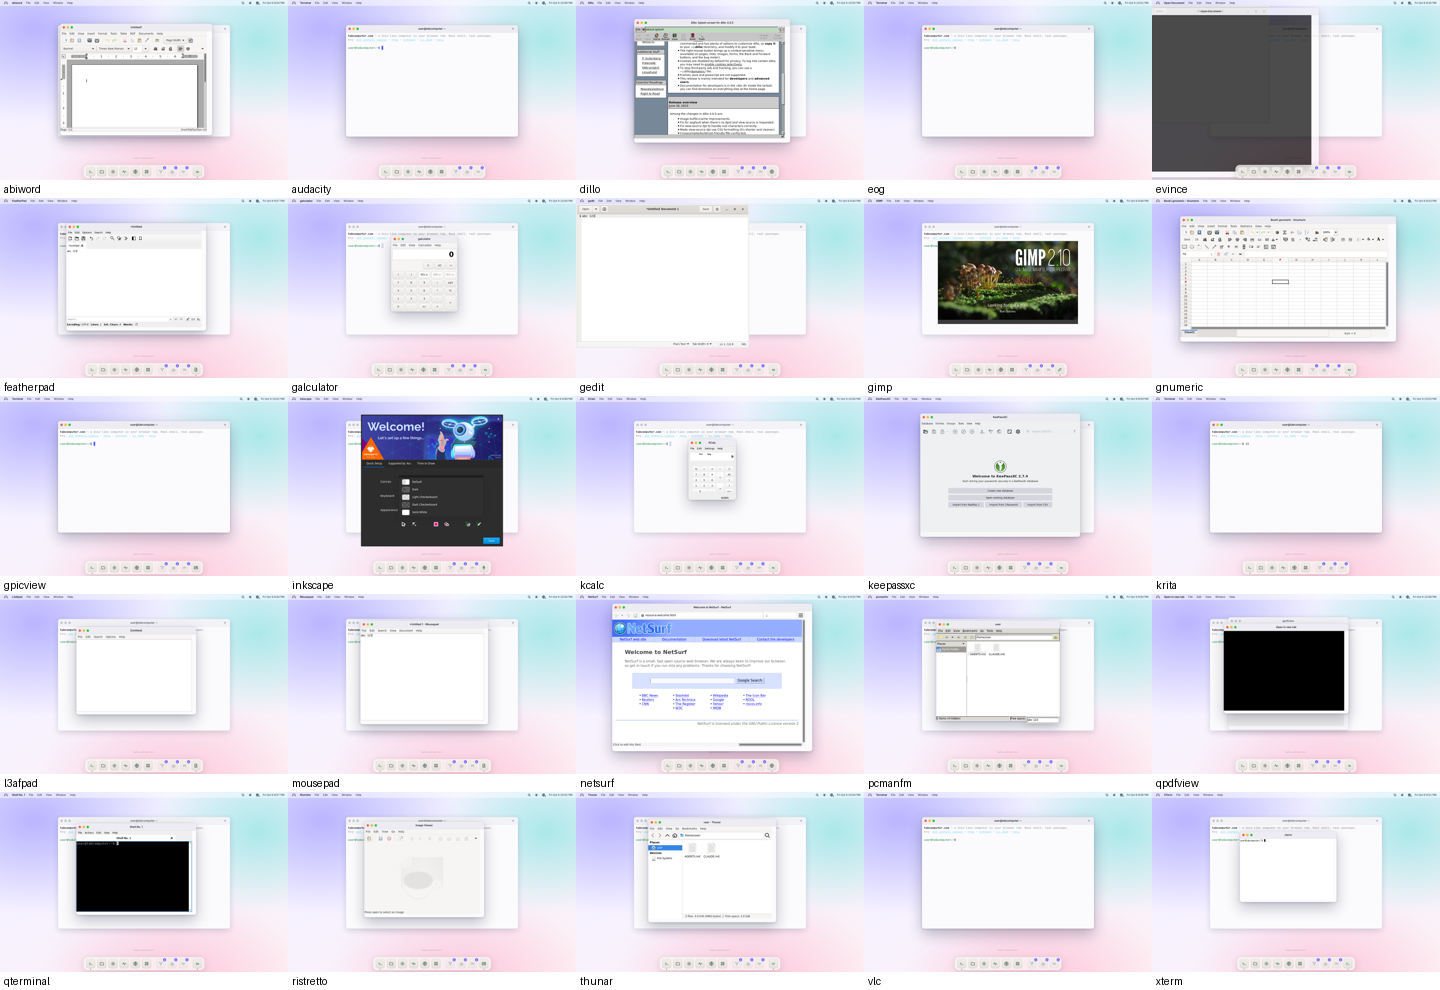
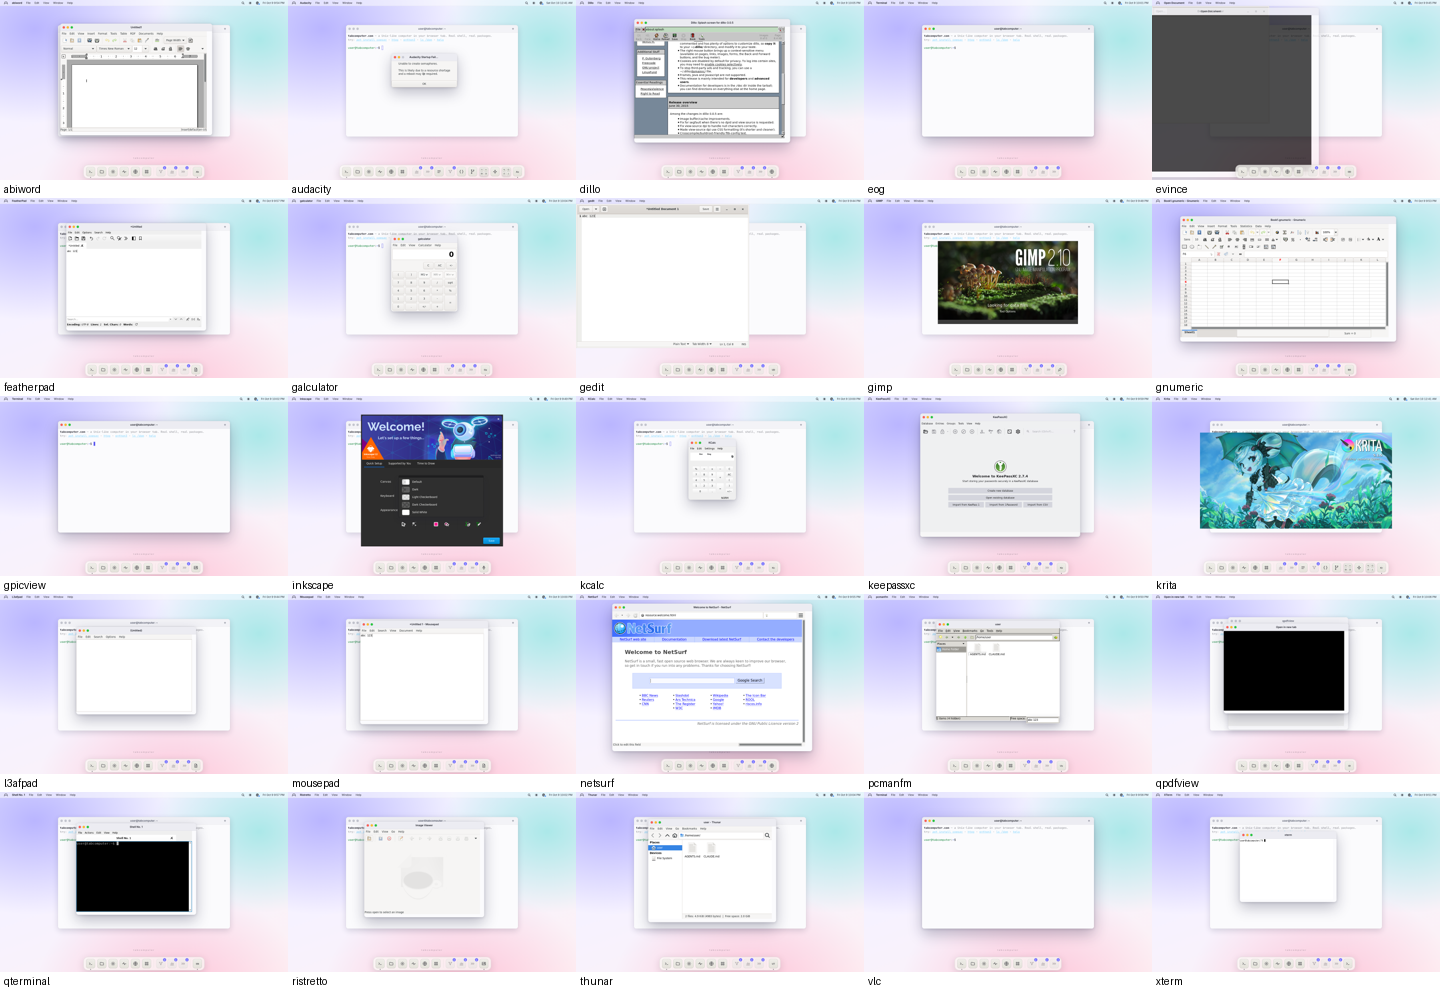
docs: GUI scoreboard after the merge; Krita and Audacity rescored
Claude-Session: https://claude.ai/code/session_01BTnm46q6Kk6gwKSSRHohXj

Changed region(s): [[0.8125, 0.4242, 0.9688, 0.5455], [0.25, 0.0606, 0.3438, 0.1818]]

diff --git a/docs/GUI_SCORE.md b/docs/GUI_SCORE.md
@@ -4,7 +4,7 @@ Debian 12 GUI apps installed from the streaming manifest (`public/gui/apps.json`
 
 Columns: **installs**; **window**: a desktop window appears, with the time from launch (installed) to it; **renders**: its largest window isn't one flat colour after 8 s; **input**: focusing it and typing `abc 123` changes its pixels (or, if not, clicking into its middle and typing does, or Ctrl+O opens a window or changes them); **text**: the DOM text layer has spans for it (GTK via libshiro-text-hook.so, core X text; Qt and others draw pixels only).
 
-**29/29 install, 24/29 open a window, 23/29 render, 19/29 react to input, 14/29 have DOM text.**
+**29/29 install, 24/29 open a window, 23/29 render, 18/29 react to input, 14/29 have DOM text.**
 
 
 ### Editors & viewers
@@ -25,7 +25,7 @@ Columns: **installs**; **window**: a desktop window appears, with the time from 
 |---|---|---:|---:|:-:|---:|:-:|:-:|:-:|---|
 | gimp | gtk2 | 66.1 MB | 7.0 s | ✓ | 24 s | ✓ | ✓ | ✓ (2) |  |
 | inkscape | gtk3 | 83 MB | 9.9 s | ✓ | 38 s | ✓ | ✓ | ✓ (18) |  |
-| krita | qt5 | 118.3 MB | 15 s | ✓ | 13 s | ✓ | ✓ | ✗ | input: probably nothing open to type into (not investigated) |
+| krita | qt5 | 118.3 MB | 8.3 s | ✓ | 13 s | ✓ | ✗ | ✗ | input: passed in one of two runs (start screen, nothing open) |
 | blender | gl | 231.5 MB | 14 s | ✗ | – | – | – | – | exited (status 134) before a window; OpenCV aborts: "SSE/SSE2 not available" (the x86 engine reports CPU family 0) |
 
 ### Desktop
@@ -53,7 +53,7 @@ Columns: **installs**; **window**: a desktop window appears, with the time from 
 | netsurf | gtk3 | 56.6 MB | 5.8 s | ✓ | 9.1 s | ✓ | ✓ | ✓ (41) |  |
 | dillo | fltk | 11.4 MB | 1.2 s | ✓ | 3.3 s | ✓ | ✓ | ✗ | FLTK draws its text as pixels |
 | vlc | qt5 | 36.1 MB | 3.5 s | ✓ | 5.0 s | ✗ | – | ✗ | its window opens, then the Qt interface exits (status 0) |
-| audacity | gtk3 | 64.3 MB | 8.1 s | ✗ | – | – | – | – | error window: “Audacity Startup Failure”; wxWidgets: input and text not detected (not investigated) |
+| audacity | gtk3 | 64.3 MB | 7.1 s | ✗ | – | – | – | – | error window: “Audacity Startup Failure”; SysV shared memory (shmget) is ENOSYS in the x86 engine |
 
 ### Qt
 
@@ -89,7 +89,7 @@ Fixed while building the scoreboard (scores above are after these):
   ![GIMP with its toolbox icons](screenshots/gui-gimp-icons.png)
   Cost: the SVG loader adds librsvg and its dependencies, about 12.7 MB per GTK
   app (l3afpad 33.1 → 45.8 MB, GIMP 53.2 → 66.1 MB) — cached once, shared by all.
-- **Krita and Audacity didn't start** (missing libraries): the library closure
+- **Krita and Audacity were missing libraries** (Audacity then stops at SysV IPC, below): the library closure
   now follows each ELF's RUNPATH/RPATH (PulseAudio's private `libpulsecommon`
   pulls `libsndfile` from there) and Audacity gained `libsoxr0`.
 - **Krita opened a "Fatal error" window**: its resources live in an SQLite

diff --git a/docs/GUI.md b/docs/GUI.md
@@ -78,7 +78,7 @@ after mapping its first window until Blink patch 0029 (SSE compares wrote
 wrong masks / NaN results, which cairo/pixman loops on); it was reported to
 perf-blink with the gui-probe repro and fixed there.
 
-Status per app also in [COMPAT.md](COMPAT.md#linux-gui-apps-unixgui).
+Status per app also in [COMPAT.md](COMPAT.md#linux-gui-apps-unixgui); 29 popular apps scored (install, first window, rendering, input, text layer) in [GUI_SCORE.md](GUI_SCORE.md) (`npm run gui-score`).
 
 ### Heavier apps: Inkscape, NetSurf, Dillo
 
